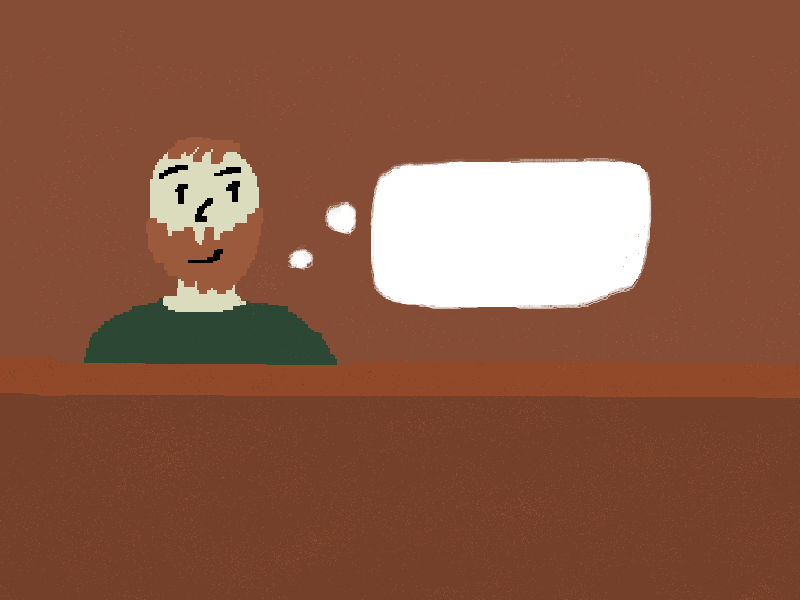
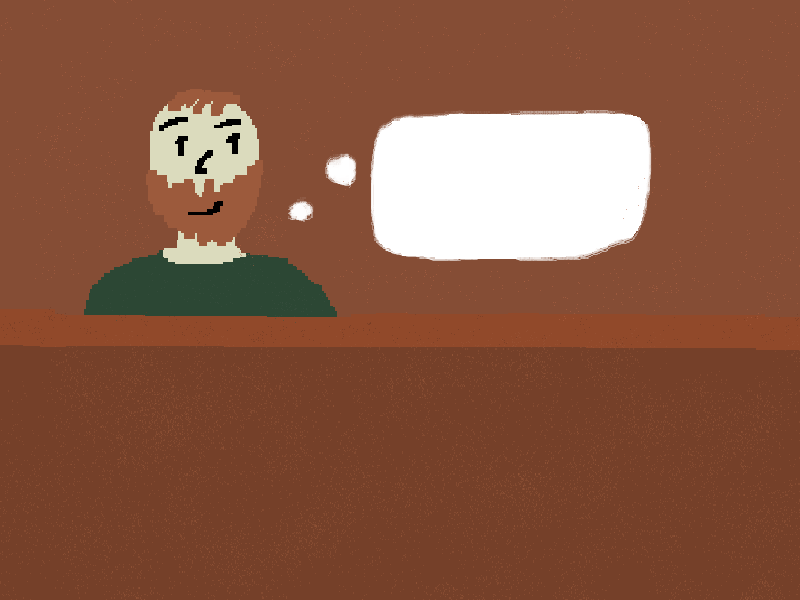
Hotový GUI pro drinky

Changed region(s): [[0.0, 0.15, 1.0, 0.69]]

diff --git a/hra.py b/hra.py
@@ -227,7 +227,8 @@ inventory_baits_tlacitko_velikost = 30
 krb_leave_velikost = 40
 statistika_velikost = 20
 exit_bar_velikost = 40
-
+info_barman_velikost = 30
+drink_cena_velikost = 30
 
 #pozice polozek v shopu + velikost
 polozky_velikost_x = 230
@@ -494,14 +495,14 @@ za_bar_exit = pygame.draw.rect(okno, cerna, (19, 529 , 102, 52))
 bar_exit = pygame.draw.rect(okno, hneda, (20, 530 , 100, 50))
 
 zidle_bar = pygame.image.load("zidle_bar.png")
-zidle_bar_rect = zidle_bar.get_rect(bottomright=(699, 405))
+zidle_bar_rect = zidle_bar.get_rect(bottomright=(699, 380))
 
 slot_bar = pygame.image.load("slot.png")
 slot_bar_rect = slot_bar.get_rect(topleft=(70, 180))
 
 barman = pygame.image.load("barman.png")
-za_barman_exit = pygame.draw.rect(okno, cerna, (9, 539 , 102, 52))
-barman_exit = pygame.draw.rect(okno, hneda, (10, 540 , 100, 50))
+za_barman_exit = pygame.draw.rect(okno, cerna, (9, 544 , 102, 52))
+barman_exit = pygame.draw.rect(okno, hneda, (10, 545 , 100, 50))
 
 slotmachine = pygame.image.load("slotmachine.png")
 
@@ -599,6 +600,8 @@ info_o_baits_font = pygame.font.SysFont("Aharoni", info_o_baits_velikost)
 krb_leave_font = pygame.font.SysFont("Aharoni", krb_leave_velikost)
 statistika_font = pygame.font.SysFont("Aharoni", statistika_velikost)
 exit_bar_font = pygame.font.SysFont("Aharoni", exit_bar_velikost)
+info_barman_font = pygame.font.SysFont("Aharoni", info_barman_velikost)
+drink_cena_font = pygame.font.Font("CHAOS16.otf", drink_cena_velikost)
 
 hlaska_font = pygame.font.SysFont("Aharoni", hlaska_velikost)
 shop_hlaska = random.choice(seznam_vet)
@@ -636,25 +639,37 @@ zapnuti_statistik_rybareni = pygame.draw.rect(okno, hneda, (5, 565, 80, 30))
 
 
 #BAR SHOP
-bar_polozky_velikost_x = 110
-bar_polozky_velikost_y = 110
+bar_polozky_velikost_x = 120
+bar_polozky_velikost_y = 158
 
-za_voda_buy = pygame.draw.rect(okno, cerna, (77, 409, bar_polozky_velikost_x + 2, bar_polozky_velikost_y + 2))
-voda_buy = pygame.draw.rect(okno, hneda, (78, 410, bar_polozky_velikost_x, bar_polozky_velikost_y))
+za_voda_buy = pygame.draw.rect(okno, cerna, (67, 379, bar_polozky_velikost_x + 2, bar_polozky_velikost_y + 2))
+voda_buy = pygame.draw.rect(okno, hneda, (68, 380, bar_polozky_velikost_x, bar_polozky_velikost_y))
 
-za_dzus_buy = pygame.draw.rect(okno, cerna, (255, 409, bar_polozky_velikost_x + 2, bar_polozky_velikost_y + 2))
-dzus_buy = pygame.draw.rect(okno, hneda, (256, 410, bar_polozky_velikost_x, bar_polozky_velikost_y))
+za_dzus_buy = pygame.draw.rect(okno, cerna, (245, 379, bar_polozky_velikost_x + 2, bar_polozky_velikost_y + 2))
+dzus_buy = pygame.draw.rect(okno, hneda, (246, 380, bar_polozky_velikost_x, bar_polozky_velikost_y))
 
-za_cola_buy = pygame.draw.rect(okno, cerna, (433, 409, bar_polozky_velikost_x + 2, bar_polozky_velikost_y + 2))
-cola_buy = pygame.draw.rect(okno, hneda, (434, 410, bar_polozky_velikost_x, bar_polozky_velikost_y))
+za_cola_buy = pygame.draw.rect(okno, cerna, (423, 379, bar_polozky_velikost_x + 2, bar_polozky_velikost_y + 2))
+cola_buy = pygame.draw.rect(okno, hneda, (424, 380, bar_polozky_velikost_x, bar_polozky_velikost_y))
 
-za_pivo_buy = pygame.draw.rect(okno, cerna, (611, 409, bar_polozky_velikost_x + 2, bar_polozky_velikost_y + 2))
-pivo_buy = pygame.draw.rect(okno, hneda, (612, 410, bar_polozky_velikost_x, bar_polozky_velikost_y))
+za_pivo_buy = pygame.draw.rect(okno, cerna, (601, 379, bar_polozky_velikost_x + 2, bar_polozky_velikost_y + 2))
+pivo_buy = pygame.draw.rect(okno, hneda, (602, 380, bar_polozky_velikost_x, bar_polozky_velikost_y))
 
 voda_cena = 15
 dzus_cena = 30
 cola_cena = 50
 pivo_cena = 75
+
+zizen_voda = 20
+hlad_voda = 0
+
+zizen_dzus = 40
+hlad_dzus = 0
+
+zizen_cola = 40
+hlad_cola = 10
+
+zizen_pivo = 100
+hlad_pivo = 20
 
 voda = pygame.image.load("voda.png")
 dzus = pygame.image.load("dzus.png")
@@ -858,24 +873,26 @@ while True:
         
         if voda_buy.collidepoint(mys_pozice) and mouse_click and not inventar:
             if coins >= voda_cena:
-                zizen += 20
+                zizen += zizen_voda
+                hlad += hlad_voda
                 coins -= voda_cena
         
         if dzus_buy.collidepoint(mys_pozice) and mouse_click and not inventar:
             if coins >= dzus_cena:
-                zizen += 40
+                zizen += zizen_dzus
+                hlad += hlad_dzus
                 coins -= dzus_cena
         
         if cola_buy.collidepoint(mys_pozice) and mouse_click and not inventar:
             if coins >= cola_cena:
-                zizen += 40
-                hlad += 10
+                zizen += zizen_cola
+                hlad += hlad_cola
                 coins -= cola_cena
         
         if pivo_buy.collidepoint(mys_pozice) and mouse_click and not inventar:
             if coins >= pivo_cena:
-                zizen += 100
-                hlad += 20
+                zizen += zizen_pivo
+                hlad += hlad_pivo
                 coins -= pivo_cena
             
         
@@ -1526,23 +1543,59 @@ while True:
         pygame.draw.rect(okno, cerna, za_barman_exit)
         pygame.draw.rect(okno, hneda, barman_exit)
         exit_barman_text = exit_bar_font.render("EXIT", True, cerna)
-        okno.blit(exit_barman_text, (26, 553))
+        okno.blit(exit_barman_text, (26, 558))
         
         pygame.draw.rect(okno, cerna, za_voda_buy)
         pygame.draw.rect(okno, hneda, voda_buy)
-        okno.blit(voda, (voda_buy))
+        okno.blit(voda, (82, 380))
+        voda_text = info_barman_font.render("water", True, cerna)
+        okno.blit(voda_text, (100, 431))
+        voda_cena_text = drink_cena_font.render(f"{voda_cena}", True, zluta)
+        okno.blit(voda_cena_text, (102, 502))
+        okno.blit(coin_ikona, (132, 502))
+        statistika_zizne_voda_text = statistika_font.render(f"Thirst: +{zizen_voda}", True, cerna)
+        okno.blit(statistika_zizne_voda_text, (77, 458))
+        statistika_hladu_voda_text = statistika_font.render(f"Hunger: +{hlad_voda}", True, cerna)
+        okno.blit(statistika_hladu_voda_text, (77, 478))
         
         pygame.draw.rect(okno, cerna, za_dzus_buy)
         pygame.draw.rect(okno, hneda, dzus_buy)
-        okno.blit(dzus, (dzus_buy))
-        
+        okno.blit(dzus, (260, 380))
+        dzus_text = info_barman_font.render("juice", True, cerna)
+        okno.blit(dzus_text, (284, 431))
+        dzus_cena_text = drink_cena_font.render(f"{dzus_cena}", True, zluta)
+        okno.blit(dzus_cena_text, (280, 502))
+        okno.blit(coin_ikona, (310, 502))
+        statistika_zizne_dzus_text = statistika_font.render(f"Thirst: +{zizen_dzus}", True, cerna)
+        okno.blit(statistika_zizne_dzus_text, (255, 458))
+        statistika_hladu_dzus_text = statistika_font.render(f"Hunger: +{hlad_dzus}", True, cerna)
+        okno.blit(statistika_hladu_dzus_text,  (255, 478))
+
         pygame.draw.rect(okno, cerna, za_cola_buy)
         pygame.draw.rect(okno, hneda, cola_buy)
-        okno.blit(cola, (cola_buy))
+        okno.blit(cola, (438, 380))
+        cola_text = info_barman_font.render("cola", True, cerna)
+        okno.blit(cola_text, (464, 431))
+        cola_cena_text = drink_cena_font.render(f"{cola_cena}", True, zluta)
+        okno.blit(cola_cena_text, (460, 502))
+        okno.blit(coin_ikona, (490, 502))
+        statistika_zizne_cola_text = statistika_font.render(f"Thirst: +{zizen_cola}", True, cerna)
+        okno.blit(statistika_zizne_cola_text, (434, 458))
+        statistika_hladu_cola_text = statistika_font.render(f"Hunger: +{hlad_cola}", True, cerna)
+        okno.blit(statistika_hladu_cola_text, (434, 478))
         
         pygame.draw.rect(okno, cerna, za_pivo_buy)
         pygame.draw.rect(okno, hneda, pivo_buy)
-        okno.blit(pivo, (620, 414))
+        okno.blit(pivo, (616, 382))
+        pivo_text = info_barman_font.render("beer 0%", True, cerna)
+        okno.blit(pivo_text, (630, 431))
+        pivo_cena_text = drink_cena_font.render(f"{pivo_cena}", True, zluta)
+        okno.blit(pivo_cena_text, (640, 502))
+        okno.blit(coin_ikona, (670, 502))
+        statistika_zizne_piva_text = statistika_font.render(f"Thirst: +{zizen_pivo}", True, cerna)
+        okno.blit(statistika_zizne_piva_text, (610, 458))
+        statistika_hladu_pivo_text = statistika_font.render(f"Hunger: +{hlad_pivo}", True, cerna)
+        okno.blit(statistika_hladu_pivo_text, (610, 478))
         
         pygame.draw.rect(okno, cerna, (649 , 544, 102 , 52))
         pygame.draw.rect(okno, Shneda, (650 , 545, 100 , 50))
